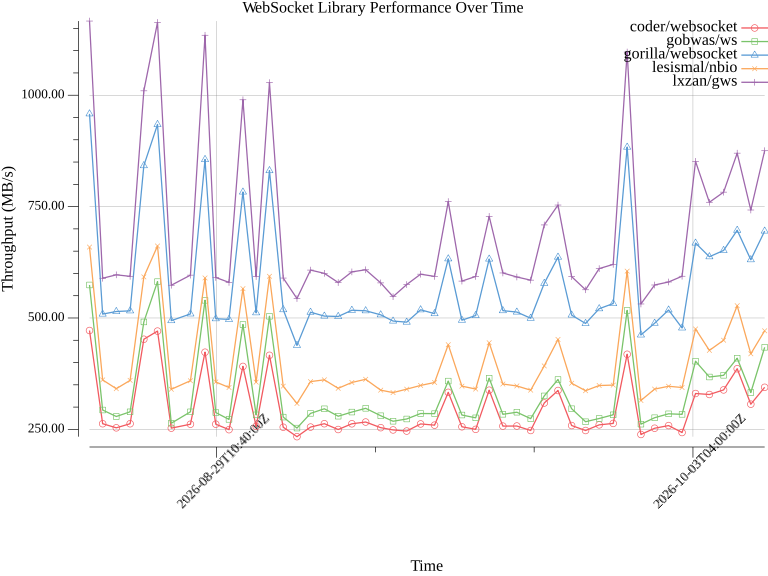
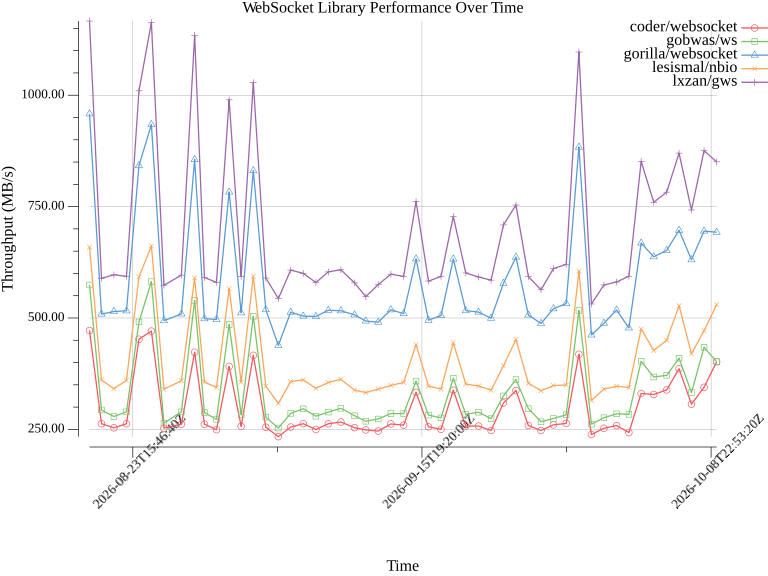
chore: Update benchmark results, graph, and README

diff --git a/README.md b/README.md
@@ -13,15 +13,15 @@ Go WebSocket Library Comparison
 **Latest Benchmark Results:**
 
 <!-- BENCHMARK_TABLE_START -->
-**Last Updated:** Thu, 08 Oct 2026 09:26:39 UTC
+**Last Updated:** Fri, 09 Oct 2026 09:36:36 UTC
 
 | Library                                         | Version         | Throughput (MB/s) | Avg Latency (ms) |
 | ----------------------------------------------- | --------------- | ----------------- | ---------------- |
-| [coder/websocket](https://github.com/coder/websocket) | v1.8.15 | 344.45 | 22.53 |
-| [gobwas/ws](https://github.com/gobwas/ws) | v1.4.0 | 434.16 | 17.89 |
-| [gorilla/websocket](https://github.com/gorilla/websocket) | v1.5.3 | 695.12 | 11.18 |
-| [lesismal/nbio](https://github.com/lesismal/nbio) | v1.7.1 | 471.27 | 16.47 |
-| [lxzan/gws](https://github.com/lxzan/gws) | v1.10.2 | 875.49 | 8.90 |
+| [coder/websocket](https://github.com/coder/websocket) | v1.8.15 | 401.82 | 19.33 |
+| [gobwas/ws](https://github.com/gobwas/ws) | v1.4.0 | 402.07 | 19.31 |
+| [gorilla/websocket](https://github.com/gorilla/websocket) | v1.5.3 | 692.49 | 11.22 |
+| [lesismal/nbio](https://github.com/lesismal/nbio) | v1.7.1 | 530.11 | 14.64 |
+| [lxzan/gws](https://github.com/lxzan/gws) | v1.10.2 | 850.48 | 9.15 |
 <!-- BENCHMARK_TABLE_END -->
 
 **Performance Over Time: Throughput (MB/s):**
